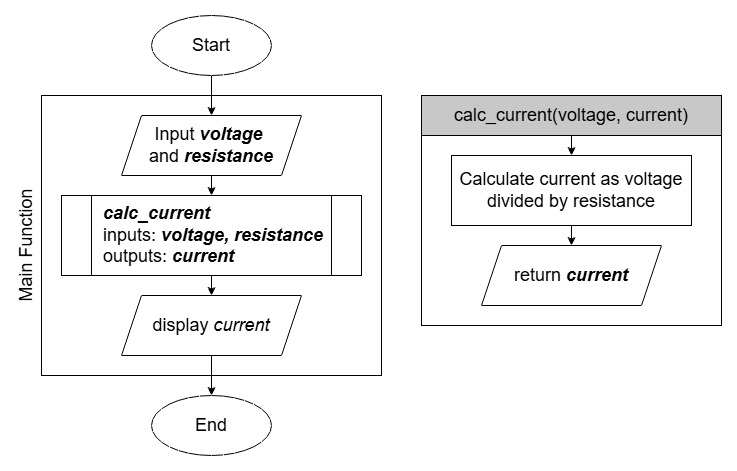
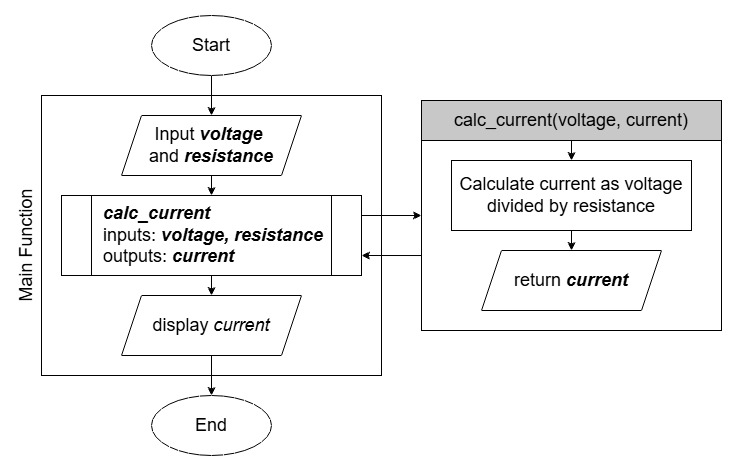
Added more py2 assessment Qs and flowcharts.

diff --git a/source/quizzes/python_question_bank/M2/Py2.8.md b/source/quizzes/python_question_bank/M2/Py2.8.md
@@ -1,0 +1,85 @@
+## Py2.8
+
+Use the Python code to fill in the blanks in the:
+
+(a) Terminal (sample input/output)
+(b) Flowchart
+
+### Editor - number_score.py
+
+```python
+# Calculate number score
+num1 = int(input("Enter the first number (1-50): "))
+num2 = int(input("Enter the second number (1-50): "))
+num3 = int(input("Enter the third number (1-50): "))
+num4 = int(input("Enter the fourth number (1-50): "))
+
+print(f"You entered: {num1}, {num2}, {num3}, {num4}")
+
+lucky_nums = {3, 6, 7, 8, 9}
+unlucky_nums = {4, 13, 17}
+
+if num1 in lucky_nums or num3 in lucky_nums:
+    print("You entered a lucky number!")
+    bonus = 15
+    score = num1 + num3 + bonus
+elif num2 in unlucky_nums or num4 in unlucky_nums:
+    print("You entered an unlucky number!")
+    penalty = -5
+    if num2 == 13 or num4 == 13:
+        print("You entered the unluckiest number!")
+        penalty = -10
+    score = num2 + num4 + penalty   
+else:
+    print("Your numbers are mid. Low score.")
+    score = 5
+
+print(f"Your score is: {score}") 
+```
+
+### Terminal (a)
+
+    # Sample input/ouput 1
+    $ python checkout.py
+    Enter the first number (1-50): 7
+    Enter the second number (1-50): ___
+    Enter the third number (1-50): 12
+    Enter the fourth number (1-50): 40
+    You entered: 7, 22, 12, 40
+    _________________________________
+    Your score is: 34
+
+    # Sample input/ouput 2
+    $ python checkout.py
+    Enter the first number (1-50): 2
+    Enter the second number (1-50): 4
+    Enter the third number (1-50): 11
+    Enter the fourth number (1-50): 20
+    _________________________________
+    You entered an ___________ number!
+    Your score is: -1
+
+    # Sample input/ouput 3
+    $ python checkout.py
+    Enter the first number (1-50): 1
+    Enter the second number (1-50): 13
+    Enter the third number (1-50): 9
+    Enter the fourth number (1-50): ___
+    You entered: 1, 13, 9, ___
+    You entered an unlucky number!
+    _________________________________
+    Your score is: 11
+
+    # Sample input/ouput 4
+    $ python checkout.py
+    Enter the first number (1-50): 1
+    Enter the second number (1-50): 2
+    Enter the third number (1-50): 10
+    Enter the fourth number (1-50): 11
+    You entered: 1, 2, 10, 11
+    _________________________________
+    Your score is: ___
+
+### Flowchart (b)
+
+[See flowchart with blanks in Python M2 quiz files - Py2.8_flowchart.jpg]

diff --git a/source/quizzes/python_question_bank/M2/Py2.8_solutions.md b/source/quizzes/python_question_bank/M2/Py2.8_solutions.md
@@ -1,0 +1,85 @@
+## Py2.8
+
+Use the Python code to fill in the blanks in the:
+
+(a) Terminal (sample input/output)
+(b) Flowchart
+
+### Editor - number_score.py
+
+```python
+# Calculate number score
+num1 = int(input("Enter the first number (1-50): "))
+num2 = int(input("Enter the second number (1-50): "))
+num3 = int(input("Enter the third number (1-50): "))
+num4 = int(input("Enter the fourth number (1-50): "))
+
+print(f"You entered: {num1}, {num2}, {num3}, {num4}")
+
+lucky_nums = {3, 6, 7, 8, 9}
+unlucky_nums = {4, 13, 17}
+
+if num1 in lucky_nums or num3 in lucky_nums:
+    print("You entered a lucky number!")
+    bonus = 15
+    score = num1 + num3 + bonus
+elif num2 in unlucky_nums or num4 in unlucky_nums:
+    print("You entered an unlucky number!")
+    penalty = -5
+    if num2 == 13 or num4 == 13:
+        print("You entered the unluckiest number!")
+        penalty = -10
+    score = num2 + num4 + penalty   
+else:
+    print("Your numbers are mid. Low score.")
+    score = 5
+
+print(f"Your score is: {score}") 
+```
+
+### Terminal (a)
+
+    # Sample input/ouput 1
+    $ python checkout.py
+    Enter the first number (1-50): 7
+    Enter the second number (1-50): 22
+    Enter the third number (1-50): 12
+    Enter the fourth number (1-50): 40
+    You entered: 7, 22, 12, 40
+    You entered a lucky number!
+    Your score is: 34
+
+    # Sample input/ouput 2
+    $ python checkout.py
+    Enter the first number (1-50): 2
+    Enter the second number (1-50): 4
+    Enter the third number (1-50): 11
+    Enter the fourth number (1-50): 20
+    You entered: 2, 4, 11, 20
+    You entered an unlucky number!
+    Your score is: -1
+
+    # Sample input/ouput 3
+    $ python checkout.py
+    Enter the first number (1-50): 1
+    Enter the second number (1-50): 13
+    Enter the third number (1-50): 9
+    Enter the fourth number (1-50): 8
+    You entered: 1, 13, 9, 8
+    You entered an unlucky number!
+    You entered the unluckiest number!
+    Your score is: 11
+
+    # Sample input/ouput 4
+    $ python checkout.py
+    Enter the first number (1-50): 1
+    Enter the second number (1-50): 2
+    Enter the third number (1-50): 10
+    Enter the fourth number (1-50): 11
+    You entered: 1, 2, 10, 11
+    Your numbers are mid. Low score
+    Your score is: 5
+
+### Flowchart (b)
+
+[See flowchart with blanks in Python M2 quiz files - Py2.8_flowchart.jpg]

diff --git a/source/quizzes/python_question_bank/M2/Py2.7_solutions.md b/source/quizzes/python_question_bank/M2/Py2.7_solutions.md
@@ -1,0 +1,28 @@
+## Py2.7
+
+Use the Python code to fill in the blanks in the flowchart.
+
+[See flowchart with solution in Python M2 quiz files - Py2.7_flowchart_solution.jpg]
+
+# Editor - bernoulli_principle.py
+
+```python
+# Calculate pressure change in a pipe with two sections of different diameter
+def calc_pressure(P1, rho, v1, v2, h1, h2):
+    g = 9.81  # Acceleration due to gravity in m/s^2
+    if h1 == h2:
+        P2 = P1 + (0.5 * rho * (v1**2 - v2**2))
+    else:
+        P2 = P1 + (0.5 * rho * (v1**2 - v2**2)) + (rho * g * abs(h1 - h2))
+    return P2
+
+P1 = float(input("Enter the pressure at point 1 (P1) in Pascals: "))
+rho = float(input("Enter the density of the fluid (rho) in kg/m^3: "))
+v1 = float(input("Enter the velocity at point 1 (v1) in m/s: "))
+v2 = float(input("Enter the velocity at point 2 (v2) in m/s: "))
+h1 = float(input("Enter the height at point 1 (h1) in m: "))
+h2 = float(input("Enter the height at point 2 (h2) in m: "))
+
+P2 = calc_pressure(P1, rho, v1, v2, h1, h2)
+print(f"The pressure at point 2 in the pipe (P2) is: {P2:.2f} Pascals")
+```

diff --git a/source/quizzes/python_question_bank/M2/Py2.7.md b/source/quizzes/python_question_bank/M2/Py2.7.md
@@ -1,0 +1,28 @@
+## Py2.7
+
+Use the Python code to fill in the blanks in the flowchart.
+
+[See flowchart with blanks in Python M2 quiz files - Py2.7_flowchart.jpg]
+
+# Editor - bernoulli_principle.py
+
+```python
+# Calculate pressure change in a pipe with two sections of different diameter
+def calc_pressure(P1, rho, v1, v2, h1, h2):
+    g = 9.81  # Acceleration due to gravity in m/s^2
+    if h1 == h2:
+        P2 = P1 + (0.5 * rho * (v1**2 - v2**2))
+    else:
+        P2 = P1 + (0.5 * rho * (v1**2 - v2**2)) + (rho * g * abs(h1 - h2))
+    return P2
+
+P1 = float(input("Enter the pressure at point 1 (P1) in Pascals: "))
+rho = float(input("Enter the density of the fluid (rho) in kg/m^3: "))
+v1 = float(input("Enter the velocity at point 1 (v1) in m/s: "))
+v2 = float(input("Enter the velocity at point 2 (v2) in m/s: "))
+h1 = float(input("Enter the height at point 1 (h1) in m: "))
+h2 = float(input("Enter the height at point 2 (h2) in m: "))
+
+P2 = calc_pressure(P1, rho, v1, v2, h1, h2)
+print(f"The pressure at point 2 in the pipe (P2) is: {P2:.2f} Pascals")
+```

diff --git a/source/quizzes/python_question_bank/M2/Py2.6.md b/source/quizzes/python_question_bank/M2/Py2.6.md
@@ -1,8 +1,8 @@
 ## Py2.6
 
-Use the flowchart to fill in 1 blank in the Python code.
+Use the flowchart to fill in 2 blanks in the Python code.
 
-[See flowchart in Python M2 quiz files - Py2.5_flowchart.jpg]
+[See flowchart in Python M2 quiz files - Py2.6_flowchart.jpg]
 
 ```python
 # Calculate current (I) with voltage (V) and resistance (R) using Ohm's Law (V = I*R)
@@ -10,7 +10,7 @@ import __main__
 
 def calc_current(voltage, resistance):
     current = voltage / resistance
-    return current
+    _________________________________
 
 def main():
     voltage = float(input("Enter voltage (Volts): "))

diff --git a/source/quizzes/python_question_bank/M2/Py2.6_solutions.md b/source/quizzes/python_question_bank/M2/Py2.6_solutions.md
@@ -1,8 +1,8 @@
 ## Py2.6
 
-Use the flowchart to fill in 1 blank in the Python code.
+Use the flowchart to fill in 2 blanks in the Python code.
 
-[See flowchart in Python M2 quiz files - Py2.5_flowchart.jpg]
+[See flowchart in Python M2 quiz files - Py2.6_flowchart.jpg]
 
 ```python
 # Calculate current (I) with voltage (V) and resistance (R) using Ohm's Law (V = I*R)
